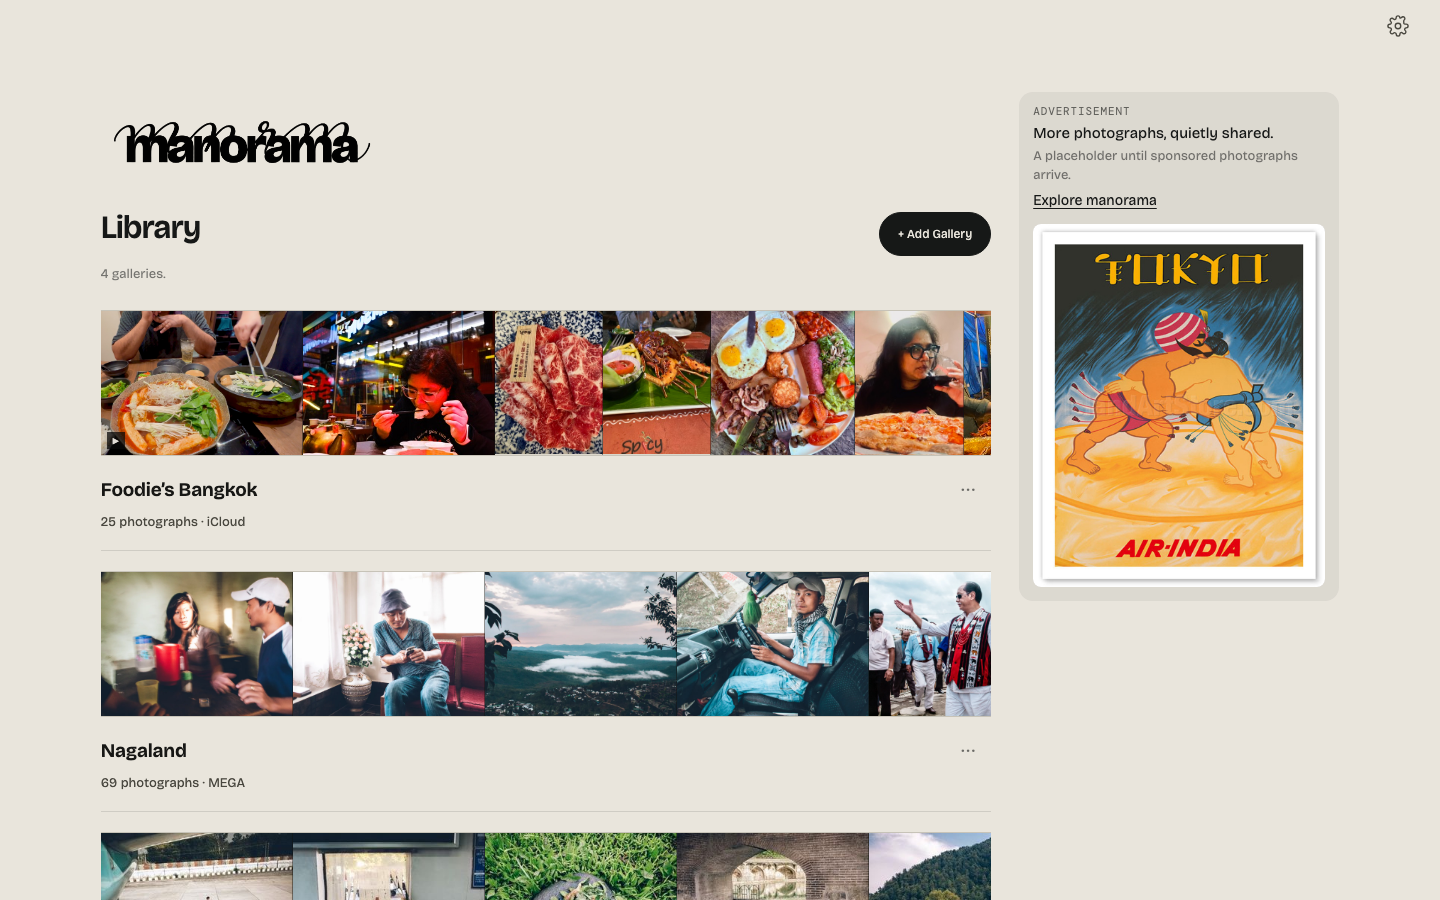
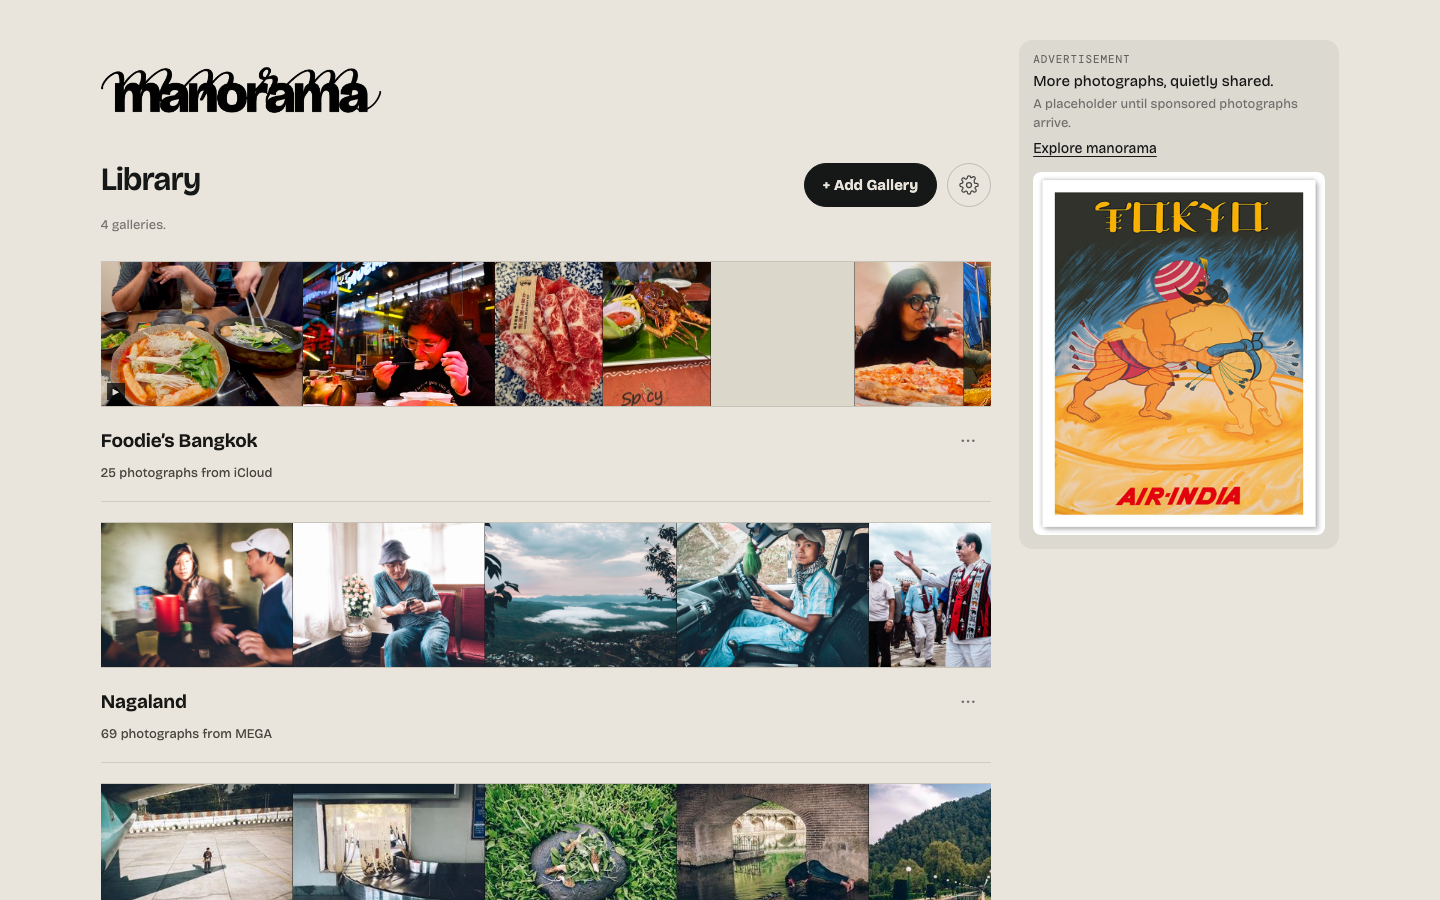
feat(admin): app-ify the Library surface
The 52px top bar was dead space once the wordmark moved into the
column — it is gone, and Settings is now a quiet circle pill beside
Add Gallery, which picks up the iPhone pill face (Bricolage 650).
The mark renders at 306px so its ink lands at 2x and the PNG's
transparent bearing is cancelled, squaring the "m" on the "L" of
Library. Card links and the in-gallery Library exit open in place
rather than new tabs. The card metadata reads "from Dropbox" style,
and the sub line now states the plan and hosted counts — Visionary
of 99 or Free of 3 plus any temporaries, with the upgrade path linked.

diff --git a/app/islands/Admin.tsx b/app/islands/Admin.tsx
@@ -14,7 +14,6 @@ import { GalleryDetailsView } from '../components/GalleryDetailsView'
 import { GalleryEditSheet, type GalleryEditField } from '../components/GalleryEditSheet'
 import { WebSettings, type AccountIdentityWeb } from '../components/WebSettings'
 import { WebReorderView } from '../components/WebReorderView'
-import { TopBar } from '../components/ui/TopBar'
 import { copyText } from '../lib/gallery-share'
 import { houseAdFrameFor, type AdFrame } from '../lib/adframe'
 
@@ -690,6 +689,7 @@ export default function Admin({ galleries: initialGalleries, owner, ownerName, p
   const liveGalleries = galleries.filter((gallery) => !isGalleryExpired(gallery, new Date(now).toISOString()))
   const retainedCount = liveGalleries.filter((gallery) => gallery.retention !== 'pipeline').length
   const retainedLimit = tier === 'pro' ? PAID_RETAINED_LIMIT : FREE_RETAINED_LIMIT
+  const temporaryCount = liveGalleries.filter(isLocked).length
   const detailsGallery = detailsSlug ? liveGalleries.find((gallery) => gallery.slug === detailsSlug) ?? null : null
   const menuGallery = menuSlug ? liveGalleries.find((gallery) => gallery.slug === menuSlug) ?? null : null
   const shareGallery = shareSlug ? liveGalleries.find((gallery) => gallery.slug === shareSlug) ?? null : null
@@ -705,11 +705,10 @@ export default function Admin({ galleries: initialGalleries, owner, ownerName, p
           The edge tab and account drawer are gone (D6) — Settings is the
           pushed surface it always was, Privacy lives on it and in the site
           footer. */}
-      <TopBar logo={false} end={(
-        <button type="button" class="m-btn m-btn--quiet m-iconbtn" aria-label="Settings" onClick={openSettings}>
-          <svg viewBox="0 0 24 24" aria-hidden="true" width="22" height="22" fill="none" stroke="currentColor" stroke-width="1.5"><circle cx="12" cy="12" r="3" /><path d="M19.4 15a1.7 1.7 0 0 0 .3 1.8l.1.1a2 2 0 1 1-2.8 2.8l-.1-.1a1.7 1.7 0 0 0-1.8-.3 1.7 1.7 0 0 0-1 1.5V21a2 2 0 1 1-4 0v-.1a1.7 1.7 0 0 0-1.1-1.5 1.7 1.7 0 0 0-1.8.3l-.1.1a2 2 0 1 1-2.8-2.8l.1-.1a1.7 1.7 0 0 0 .3-1.8 1.7 1.7 0 0 0-1.5-1H3a2 2 0 1 1 0-4h.1a1.7 1.7 0 0 0 1.5-1.1 1.7 1.7 0 0 0-.3-1.8l-.1-.1a2 2 0 1 1 2.8-2.8l.1.1a1.7 1.7 0 0 0 1.8.3H9a1.7 1.7 0 0 0 1-1.5V3a2 2 0 1 1 4 0v.1a1.7 1.7 0 0 0 1.8-.3l.1-.1a2 2 0 1 1 2.8 2.8l-.1.1a1.7 1.7 0 0 0-.3 1.8V9a1.7 1.7 0 0 0 1.5 1H21a2 2 0 1 1 0 4h-.1a1.7 1.7 0 0 0-1.5 1z" /></svg>
-        </button>
-      )} />
+      {/* The top bar is gone — its 52px was dead space once the wordmark
+          moved into the column. Settings is a pill beside Add Gallery, and
+          the pushed surface it opens is unchanged: Privacy lives on it and
+          in the site footer. */}
       {/* Import and curation remain usable at any window or segment width. */}
       <div class="admin-content">
       <section class={adsShow && accountAd ? 'gallery-list gallery-list--has-ad' : 'gallery-list'} aria-labelledby="galleries-heading">
@@ -719,9 +718,18 @@ export default function Admin({ galleries: initialGalleries, owner, ownerName, p
         <img class="admin-brand-mark" src="/manorama-merged-logo.png" alt="manorama" width="280" height="94" />
         <div class="admin-library-heading">
           <h1 class="admin-galleries-heading" id="galleries-heading">Library</h1>
-          <button type="button" class="admin-button admin-button--solid admin-add-pill" onClick={() => { setAddError(null); setAddOpen(true) }} disabled={busy}><span aria-hidden="true">+</span> Add Gallery</button>
+          <div class="admin-heading-actions">
+            <button type="button" class="admin-button admin-button--solid admin-add-pill" onClick={() => { setAddError(null); setAddOpen(true) }} disabled={busy}><span aria-hidden="true">+</span> Add Gallery</button>
+            <button type="button" class="admin-button admin-settings-pill" aria-label="Settings" onClick={openSettings}>
+              <svg viewBox="0 0 24 24" aria-hidden="true" width="20" height="20" fill="none" stroke="currentColor" stroke-width="1.5"><circle cx="12" cy="12" r="3" /><path d="M19.4 15a1.7 1.7 0 0 0 .3 1.8l.1.1a2 2 0 1 1-2.8 2.8l-.1-.1a1.7 1.7 0 0 0-1.8-.3 1.7 1.7 0 0 0-1 1.5V21a2 2 0 1 1-4 0v-.1a1.7 1.7 0 0 0-1.1-1.5 1.7 1.7 0 0 0-1.8.3l-.1.1a2 2 0 1 1-2.8-2.8l.1-.1a1.7 1.7 0 0 0 .3-1.8 1.7 1.7 0 0 0-1.5-1H3a2 2 0 1 1 0-4h.1a1.7 1.7 0 0 0 1.5-1.1 1.7 1.7 0 0 0-.3-1.8l-.1-.1a2 2 0 1 1 2.8-2.8l.1.1a1.7 1.7 0 0 0 1.8.3H9a1.7 1.7 0 0 0 1-1.5V3a2 2 0 1 1 4 0v.1a1.7 1.7 0 0 0 1.8-.3l.1-.1a2 2 0 1 1 2.8 2.8l-.1.1a1.7 1.7 0 0 0-.3 1.8V9a1.7 1.7 0 0 0 1.5 1H21a2 2 0 1 1 0 4h-.1a1.7 1.7 0 0 0-1.5 1z" /></svg>
+            </button>
+          </div>
         </div>
-        <p class="admin-library-sub">{liveGalleries.length === 1 ? '1 gallery' : `${liveGalleries.length} galleries`}{liveGalleries.filter(isLocked).length ? `, ${liveGalleries.filter(isLocked).length} temporary` : ''}.</p>
+        <p class="admin-library-sub">{tier === 'pro' ? (
+          <>You are a manorama Visionary user. You are hosting {retainedCount} of {PAID_RETAINED_LIMIT} permanent galleries.</>
+        ) : (
+          <>You are a manorama Free user. You are hosting {retainedCount} of {FREE_RETAINED_LIMIT} permanent galleries{temporaryCount ? ` and ${temporaryCount} temporary ${temporaryCount === 1 ? 'gallery' : 'galleries'}` : ''}. <a class="admin-upgrade-link" href={upgradeHref}>Upgrade to Visionary?</a></>
+        )}</p>
         {adsShow && accountAd ? (
           /* The sponsored panel sits between the Library heading and the
              cards — the same portrait-shaped house slot as native. */
@@ -748,7 +756,7 @@ export default function Admin({ galleries: initialGalleries, owner, ownerName, p
             <div class="admin-gallery-strip-frame" aria-label={`${title} images`} onPointerDownCapture={trackTouchPointer} onPointerDown={startStripPan} onPointerMove={moveStripPan} onPointerUp={finishStripPan} onPointerCancel={finishStripPan} onClickCapture={suppressDraggedClick} onWheel={(event) => { const frame = event.currentTarget as HTMLDivElement; const delta = Math.abs(event.deltaY) >= Math.abs(event.deltaX) ? event.deltaY : event.deltaX; frame.scrollLeft += delta; event.preventDefault() }}>
               <ul class="admin-gallery-strip" aria-label={`${title} photographs`}>
                 {gallery.images.map((image, imageIndex) => <li class="admin-gallery-strip-item" key={image.id} data-image-id={image.id}>
-                  <a href={galleryPath(gallery.slug)} target="_blank" rel="noreferrer" draggable="false" aria-label={`${title}, ${itemKind(image)} ${imageIndex + 1} of ${gallery.images.length}, opens in a new tab`}>
+                  <a href={galleryPath(gallery.slug)} draggable="false" aria-label={`${title}, ${itemKind(image)} ${imageIndex + 1} of ${gallery.images.length}`}>
                     <img src={imagePreview(image)} alt="" loading="lazy" draggable="false" style={{ aspectRatio: `${image.width} / ${image.height}` }} onLoad={(event: Event) => {
                       const img = event.currentTarget as HTMLImageElement
                       // Stored dims are the placeholder's shape — the decoded
@@ -781,11 +789,11 @@ export default function Admin({ galleries: initialGalleries, owner, ownerName, p
               </ul>
             </div>
             <div class="lib-card-head">
-              <a class="lib-card-title" href={galleryPath(gallery.slug)} target="_blank" rel="noreferrer" draggable="false" title="Opens in a new tab">{title}</a>
+              <a class="lib-card-title" href={galleryPath(gallery.slug)} draggable="false">{title}</a>
               <button type="button" class="lib-card-menu" aria-label={`${title} actions`} aria-haspopup="dialog" onClick={() => setMenuSlug(gallery.slug)}>···</button>
             </div>
             <p class="lib-card-sub">
-              {gallery.imageCount} {gallery.imageCount === 1 ? 'photograph' : 'photographs'} · {sourceLabelFor(gallery.sourceUrl)}
+              {gallery.imageCount} {gallery.imageCount === 1 ? 'photograph' : 'photographs'} from {sourceLabelFor(gallery.sourceUrl)}
               {locked ? ` · Temporary gallery${gallery.expiresAt ? ` · expires ${gallery.expiresAt.slice(0, 10)}` : ''}` : ''}
             </p>
             {gallery.caption?.trim() ? <p class="lib-card-caption">{gallery.caption}</p> : null}

diff --git a/app/admin-retention.render.test.ts b/app/admin-retention.render.test.ts
@@ -100,8 +100,8 @@ const seedPipelineOwner = async () => {
 describe('the dashboard renders retention state', () => {
   test('the owner grid keeps its theme control and never paints a doodle field', async () => {
     const html = await renderDashboard(async () => {})
-    // The top bar gear leads to Settings; Settings owns appearance.
-    expect(html).toContain('class="m-topbar"')
+    // The Settings pill leads to Settings; Settings owns appearance.
+    expect(html).not.toContain('class="m-topbar"')
     expect(html).toContain('aria-label="Settings"')
     expect(renderSettings()).toContain('aria-label="Appearance"')
     // Doodles belong to gallery pages only: the account page must ship no
@@ -112,9 +112,9 @@ describe('the dashboard renders retention state', () => {
     expect(html).not.toContain('admin-background-toggle')
   })
 
-  test('the account opens from the top bar gear and editor rails need no repeated heading', async () => {
+  test('the account opens from the Settings pill and editor rails need no repeated heading', async () => {
     const html = await renderDashboard(seedPipelineOwner)
-    expect(html).toContain('class="m-topbar"')
+    expect(html).not.toContain('class="m-topbar"')
     expect(html).toContain('aria-label="Settings"')
     expect(html).not.toContain('admin-edge-tab')
     expect(html).not.toContain('admin-account-drawer')
@@ -132,10 +132,17 @@ describe('the dashboard renders retention state', () => {
     expect(html).not.toContain('class="admin-overview"')
     expect(html).not.toContain('aria-label="Welcome to manorama"')
     expect(html).not.toContain('admin-owner-slug-input')
-    expect(html.indexOf('class="m-topbar"')).toBeLessThan(html.indexOf('class="admin-library-heading"'))
+    expect(html.indexOf('admin-brand-mark')).toBeLessThan(html.indexOf('class="admin-library-heading"'))
     expect(html.indexOf('class="admin-library-heading"')).toBeLessThan(html.indexOf('class="lib-list"'))
     expect(html).not.toContain('class="admin-lib-foot"')
     expect(html).toContain('aria-labelledby="galleries-heading"')
+  })
+
+  test('the Library sub line states the plan, the hosted counts, and the upgrade path', async () => {
+    const html = await renderDashboard(seedPipelineOwner)
+    expect(html).toContain('You are a manorama Free user.')
+    expect(html).toContain('You are hosting 3 of 3 permanent galleries and 1 temporary gallery.')
+    expect(html).toContain('Upgrade to Visionary?')
   })
 
   test('a pipeline card folds the lock into its metadata line and Details carries the upgrade path', async () => {

diff --git a/admin-appearance.playwright.ts b/admin-appearance.playwright.ts
@@ -34,13 +34,12 @@ for (const size of sizes) {
         page.on('pageerror', error => errors.push(error.message))
         await page.goto(`${base}/thecontrarian`, { waitUntil: 'domcontentloaded' })
         await expect(page.locator('[data-admin-ready="true"]')).toBeVisible({ timeout: 15_000 })
-        // Chrome is the shared top bar: Settings gear right. The wordmark
-        // left the bar — it heroes the Library at opening-screen size.
-        const topbar = page.locator('.m-topbar')
-        const gear = topbar.getByRole('button', { name: 'Settings', exact: true })
-        await expect(topbar).toBeVisible()
+        // Chrome is a quiet circle pill beside Add Gallery — the 52px bar
+        // is gone so the wordmark and cards claim that space. The wordmark
+        // leads the column, its "m" squared on the heading's "L".
+        const gear = page.getByRole('button', { name: 'Settings', exact: true })
+        await expect(page.locator('.m-topbar')).toHaveCount(0)
         await expect(gear).toBeVisible()
-        await expect(topbar.locator('.m-topbar-logo')).toHaveCount(0)
         const heroMark = page.locator('.admin-brand-mark')
         await expect(heroMark).toHaveAttribute('src', '/manorama-merged-logo.png')
         const heroBox = (await heroMark.boundingBox())!
@@ -65,8 +64,9 @@ for (const size of sizes) {
           // Wide: the slot is the grid's second column, beside the list —
           // and its left edge never invades the content column.
           expect(sponsoredBox.x).toBeGreaterThanOrEqual(cardBox.x + cardBox.width - 1)
-          // The mark's left edge squares on the heading's — "m" over "L".
-          expect(Math.abs(heroBox.x - headingBox.x)).toBeLessThan(2)
+          // The mark's visible ink squares on the heading's left edge —
+          // "m" over "L". The box starts 14px left (transparent bearing).
+          expect(Math.abs(heroBox.x + 14 - headingBox.x)).toBeLessThan(2)
           // The creative fits its media box whole — never cropped.
           const mediaBox = (await sponsored.locator('.account-ad-media').boundingBox())!
           const adImgBox = (await sponsored.locator('img').boundingBox())!

diff --git a/app/styles.css b/app/styles.css
@@ -1634,10 +1634,17 @@ body:has(.ops-page) { overflow: auto; overflow-x: clip; background: #111312; }
 .admin-page--selector input::placeholder { color: rgba(var(--ink), var(--admin-muted)); opacity: 1; }
 
 .admin-galleries-heading { margin: 0; color: rgb(var(--ink)); font-size: 32px; font-weight: 600; letter-spacing: -.03em; }
-.admin-brand-mark { display: block; width: 280px; height: auto; margin: 4px 0 18px; }
+/* The PNG carries transparent bearing (~4.6% left, ~3.9% right of its
+   2170px canvas). Rendering the file at 306px puts the ink itself at 280px
+   — 2x the old mark — and the -14px margin pulls its left bearing back so
+   the "m" starts on the heading's left edge. */
+.admin-brand-mark { display: block; width: 306px; height: auto; margin: 0 0 18px -14px; }
 .admin-library-heading { display: flex; align-items: baseline; justify-content: space-between; gap: 16px; }
+.admin-heading-actions { display: flex; align-items: center; gap: 10px; }
 .admin-library-sub { margin: 10px 0 28px; color: rgba(var(--ink), .55); font-size: 13px; }
-.admin-add-pill { border-radius: 999px; padding: 9px 18px; margin: 0; min-height: var(--m-touch); }
+.admin-upgrade-link { color: rgb(var(--ink)); text-underline-offset: 3px; }
+.admin-add-pill { border-radius: 999px; padding: 9px 18px; margin: 0; min-height: var(--m-touch); font-family: var(--m-font); font-size: 15px; font-weight: 650; }
+.admin-settings-pill { border-radius: 999px; width: var(--m-touch); height: var(--m-touch); padding: 0; margin: 0; display: inline-flex; align-items: center; justify-content: center; }
 
 /* Account surface sponsored slot: one labelled panel under the Library
    heading, above every gallery — its own surface shaped for a vertical

diff --git a/qa.playwright.ts b/qa.playwright.ts
@@ -2421,18 +2421,22 @@ test("owner admin lists galleries without a selector and remains noindex", async
   const headingBox = (await page
     .locator("h1.admin-galleries-heading")
     .boundingBox())!;
-  expect(Math.abs(brandBox.x - headingBox.x)).toBeLessThan(2);
-  expect(brandBox.width).toBeGreaterThanOrEqual(280);
+  // The mark's box starts 14px left of the ink — the PNG's transparent
+  // bearing — so the visible "m" lands on the heading's left edge.
+  expect(Math.abs(brandBox.x + 14 - headingBox.x)).toBeLessThan(2);
+  expect(brandBox.width).toBeGreaterThanOrEqual(306);
   await expect(page.locator(".admin-section-index")).toHaveCount(0);
   await expect(page.getByText("View gallery")).toHaveCount(0);
   await expect(page.locator(".lib-card .admin-eyebrow")).toHaveCount(0);
   // D2: no URL row on the card — the address lives in Share and Details.
   await expect(page.locator(".lib-card .admin-gallery-url")).toHaveCount(0);
   const firstCard = page.locator(".lib-card").first();
-  // D3: the card's links open the public gallery in a new tab.
-  await expect(
-    firstCard.getByRole("link", { name: /opens in a new tab/i }).first(),
-  ).toHaveAttribute("target", "_blank");
+  // D3: the card's links open the public gallery in place — the Library
+  // behaves as an app surface, not a website of tabs.
+  await expect(firstCard.locator(".lib-card-title")).not.toHaveAttribute(
+    "target",
+    "_blank",
+  );
   await expect(firstCard.locator(".admin-gallery-strip-frame")).toBeVisible();
   // The Photo Editor is one horizontal row (owner-approved 2026-10-10):
   // the frame hugs the thumb row — clamp(96px,16dvh,208px) items plus
